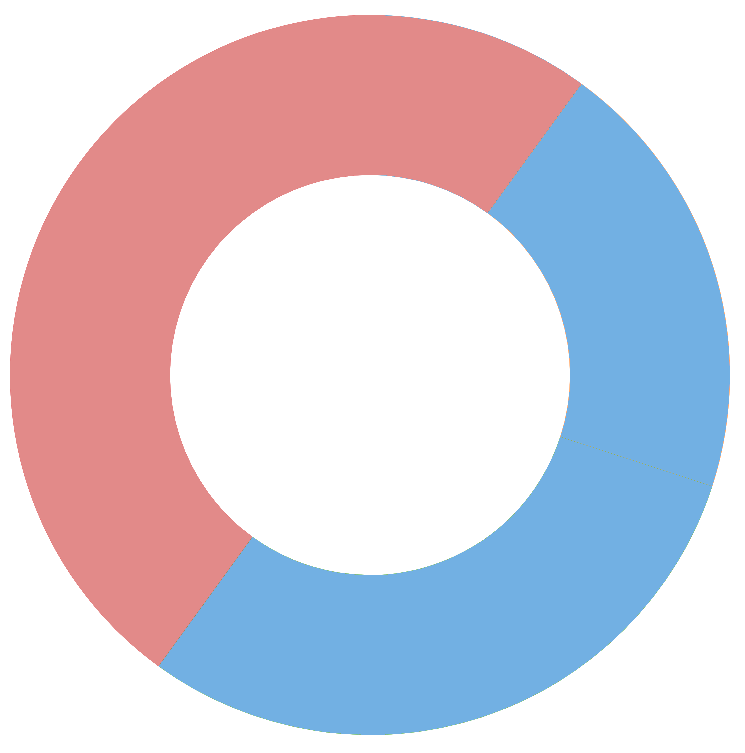
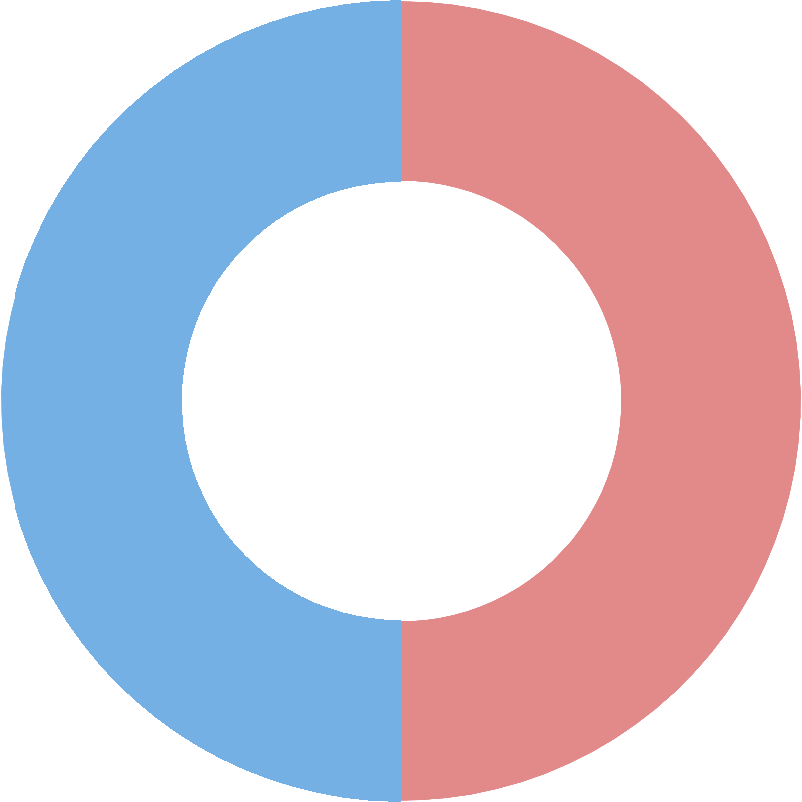
created loading screen

diff --git a/client/components/styles/LoadingScreen.css b/client/components/styles/LoadingScreen.css
@@ -1,0 +1,141 @@
+#master {
+  width: 250px;
+  height: 250px;
+  margin: 25px 75px 75px 75px;
+  display: flex;
+  flex-direction: column;
+  align-items: center;
+  justify-content: flex-end;
+}
+
+@keyframes main {
+  0% {
+    opacity: 0;
+  }
+  50% {
+    opacity: 1;
+  }
+  100% {
+    opacity: 0;
+  }
+}
+
+.dcredblue {
+  width: 50px;
+  height: auto;
+  z-index: 5;
+  animation-name: main;
+  animation-duration: 2.5s;
+  animation-iteration-count: infinite;
+}
+
+@keyframes left {
+  0% {
+    opacity: 0;
+  }
+  50% {
+    opacity: 1;
+  }
+  80% {
+    margin-top: -200px;
+    margin-left: -75px;
+  }
+  100% {
+    opacity: 0;
+    margin-top: -200px;
+    margin-left: -75px;
+  }
+}
+
+.dcyellowpink {
+  width: 50px;
+  height: auto;
+  position: absolute;
+  animation-name: left;
+  animation-duration: 2.5s;
+  animation-iteration-count: infinite;
+}
+
+@keyframes right {
+  0% {
+    opacity: 0;
+  }
+  50% {
+    opacity: 1;
+  }
+  80% {
+    margin-top: -200px;
+    margin-left: 75px;
+  }
+  100% {
+    opacity: 0;
+    margin-top: -200px;
+    margin-left: 75px;
+  }
+}
+
+.dcgreenpurple {
+  width: 50px;
+  height: auto;
+  position: absolute;
+  animation-name: right;
+  animation-duration: 2.5s;
+  animation-iteration-count: infinite;
+}
+
+@keyframes flare {
+  0% {
+    opacity: 0;
+  }
+  25% {
+    opacity: 0.1;
+  }
+  75% {
+    opacity: 0;
+  }
+  100% {
+    opacity: 0;
+  }
+}
+
+.v {
+  height: 200px;
+  width: auto;
+  z-index: 0;
+  position: absolute;
+  opacity: 0.5;
+  transform: rotate(180deg);
+  margin-top: -25px;
+  animation-name: flare;
+  animation-duration: 2.5s;
+  animation-iteration-count: infinite;
+}
+
+@keyframes loading {
+  0% {
+    opacity: 0;
+  }
+  50% {
+    opacity: 1;
+  }
+  100% {
+    opacity: 0;
+  }
+}
+
+#loading {
+  margin-left: 150px;
+  font-family: 'Caveat', cursive;
+  animation-name: loading;
+  animation-duration: 2.5s;
+  animation-iteration-count: infinite;
+}
+
+#full {
+  width: 95vw;
+  height: 95vh;
+  display: flex;
+  flex-direction: column;
+  align-items: center;
+  justify-content: center;
+}

diff --git a/client/routes.js b/client/routes.js
@@ -17,6 +17,7 @@ import {getAllViditThunk} from './store/vidit'
 import SignUpVidit from './components/SignUpVidit'
 import SurveyInput from './components/SurveyInput'
 import ErrorPage from './components/ErrorPage'
+import LoadingScreen from './components/LoadingScreen'
 
 class Routes extends Component {
   componentDidMount() {
@@ -30,6 +31,7 @@ class Routes extends Component {
     return (
       <Switch>
         <Route exact path="/vidits" component={AllVidits} />
+        <Route path="/loading" component={LoadingScreen} />
         <Route path="/feedback" component={Feedback} />
         <Route path="/login" component={LoginForm} />
         <Route path="/signup" component={SignUpForm} />

diff --git a/client/components/LoadingScreen.js b/client/components/LoadingScreen.js
@@ -1,0 +1,21 @@
+import React, {Component} from 'react'
+
+import './styles/LoadingScreen.css'
+
+const LoadingScreen = (props) => {
+  return (
+    <div id="full">
+      <div>
+        <h1 id="loading">Loading...</h1>
+        <div id="master">
+          <img src="/dummyPieChart.png" className="dcredblue" />
+          <img src="/capitalV.png" className="v" />
+          <img src="/donutGreenPurple.png" className="dcgreenpurple" />
+          <img src="/donutYellowPink.png" className="dcyellowpink" />
+        </div>
+      </div>
+    </div>
+  )
+}
+
+export default LoadingScreen
